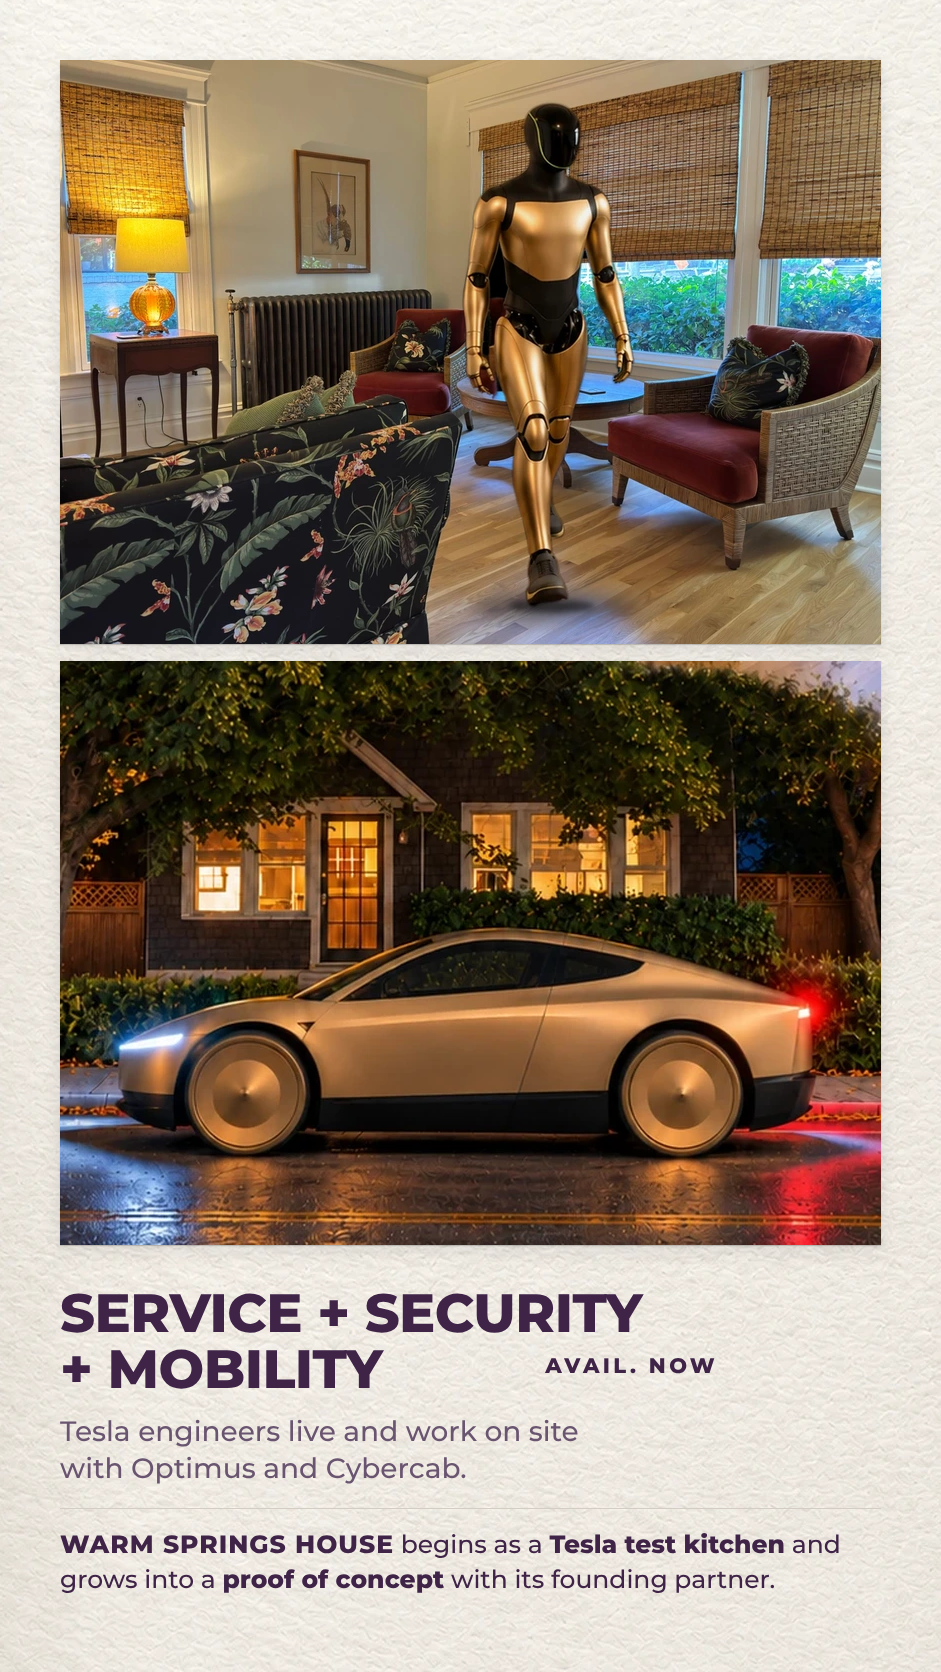
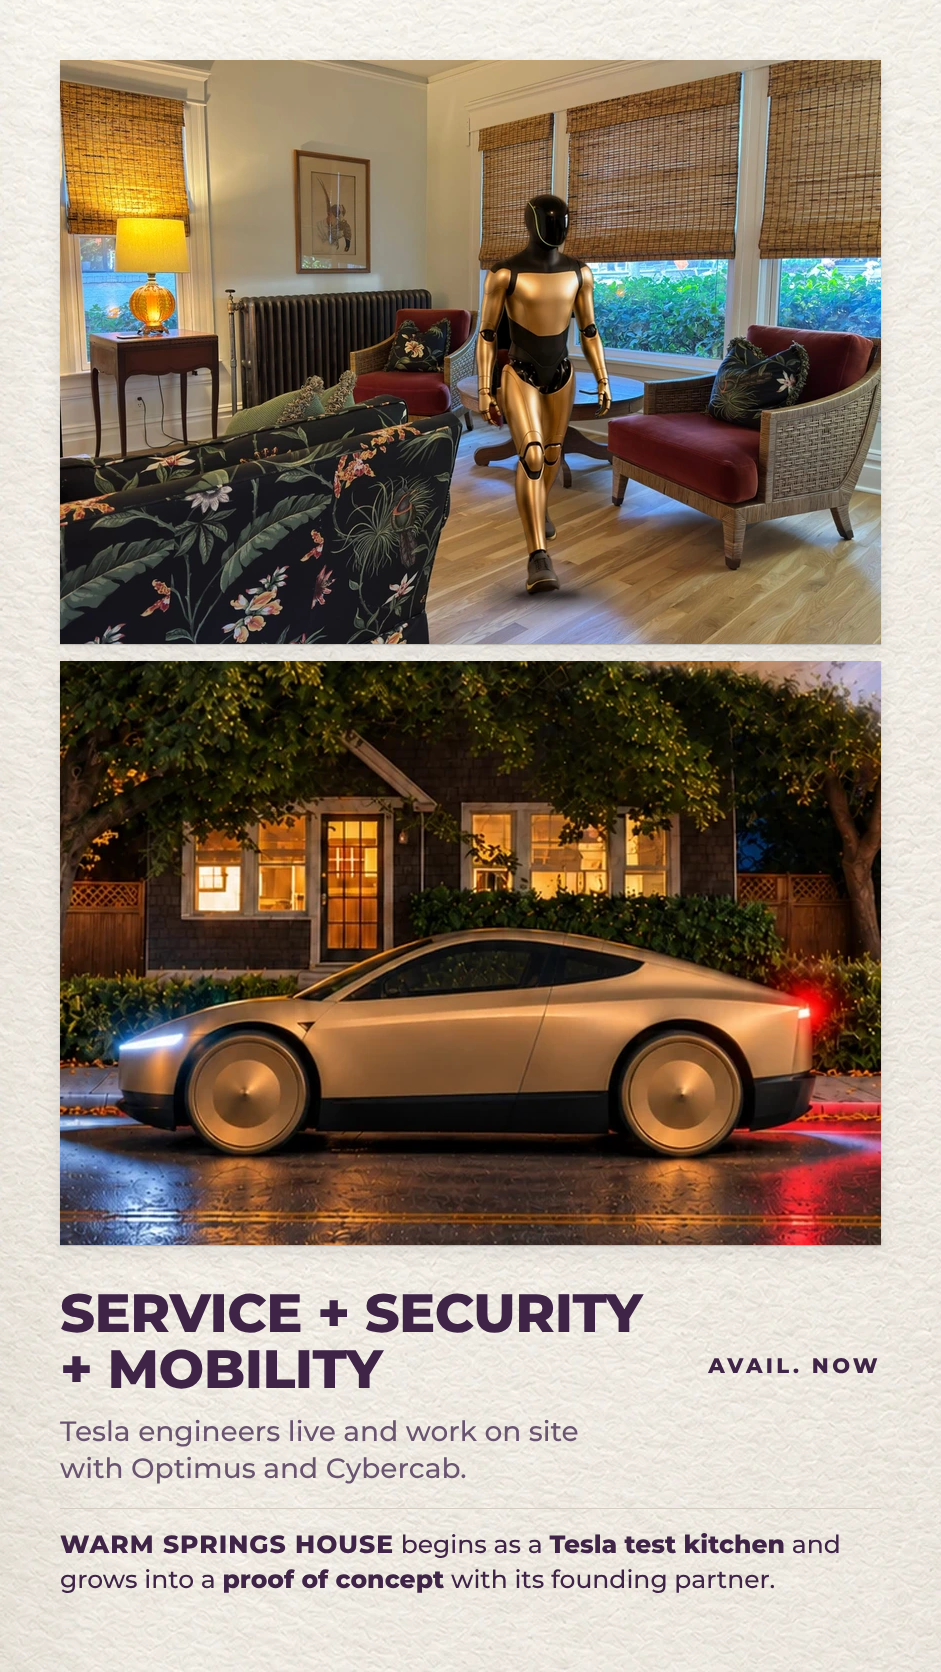
Card 3 V5: smaller Optimus, AVAIL. NOW right-aligned
Claude-Session: https://claude.ai/code/session_018mjyHLtRipED1pdLKidqkG

diff --git a/mockups/card3/v/card3-V5.html b/mockups/card3/v/card3-V5.html
@@ -10,7 +10,7 @@
 .opt i{position:absolute;left:50%;bottom:4.2%;width:62%;height:3.2%;transform:translateX(-50%);border-radius:50%;background:radial-gradient(closest-side,rgba(40,28,20,.32),rgba(40,28,20,0))}
 .txt{position:absolute;left:60px;right:60px;bottom:76px}
 </style></head><body><div class="card"><div class="m"><div class="p" style="left:0px;top:0px;width:821px;height:584px;background-image:url(ro-near-1406.webp)"></div><div class="p" style="left:0px;top:601px;width:821px;height:584px;background-image:url(cab-house-1406.webp)"></div></div><div class="txt">
-<div class="caps" style="font-size:54px;line-height:1.04;letter-spacing:-.01em;font-weight:800">Service + Security<div style="display:flex;align-items:center">+ Mobility<span style="flex:1;text-align:center;font-size:21px;letter-spacing:.16em;font-weight:800;transform:translateY(-3px)">Avail. now</span></div></div>
+<div class="caps" style="font-size:54px;line-height:1.04;letter-spacing:-.01em;font-weight:800">Service + Security<div style="display:flex;align-items:center">+ Mobility<span style="margin-left:auto;font-size:21px;letter-spacing:.16em;font-weight:800;transform:translateY(-3px)">Avail. now</span></div></div>
 <div style="margin-top:16px;font-size:28px;line-height:1.3;font-weight:500;color:#6a5571">Tesla engineers live and work on site<br>with Optimus and Cybercab.</div>
 <div style="margin-top:22px;border-top:1px solid #d3cdc4;padding-top:18px;font-size:25px;line-height:1.38;font-weight:500">
 <span class="caps" style="font-weight:800;letter-spacing:.04em">Warm Springs House</span> begins as a <b style="font-weight:800">Tesla test kitchen</b> and grows into a <b style="font-weight:800">proof of concept</b> with its founding partner.</div></div></div></body></html>
